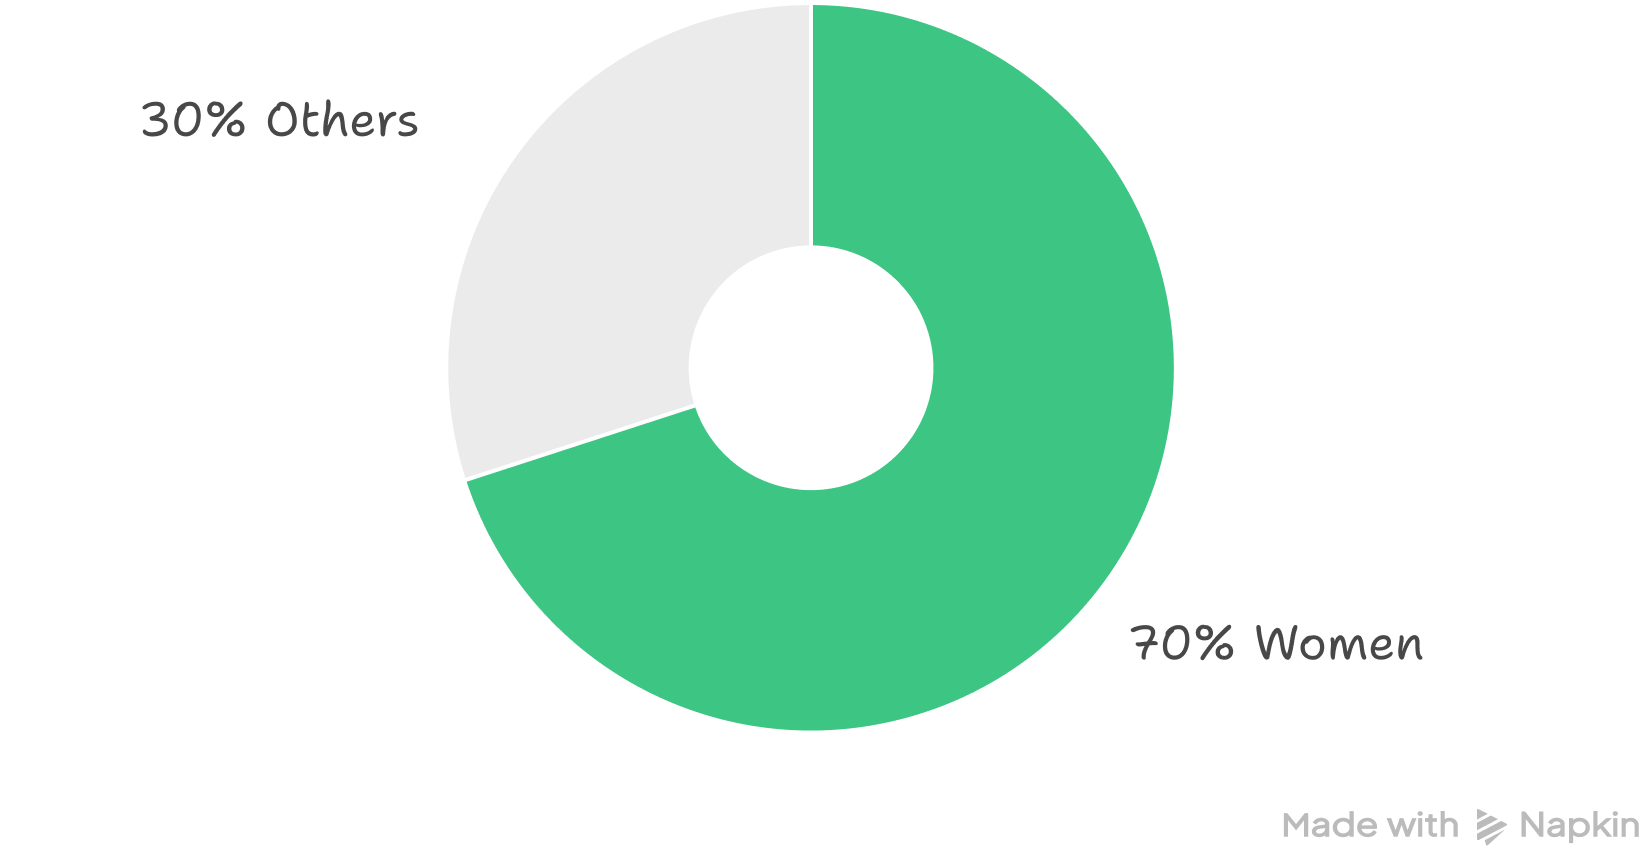
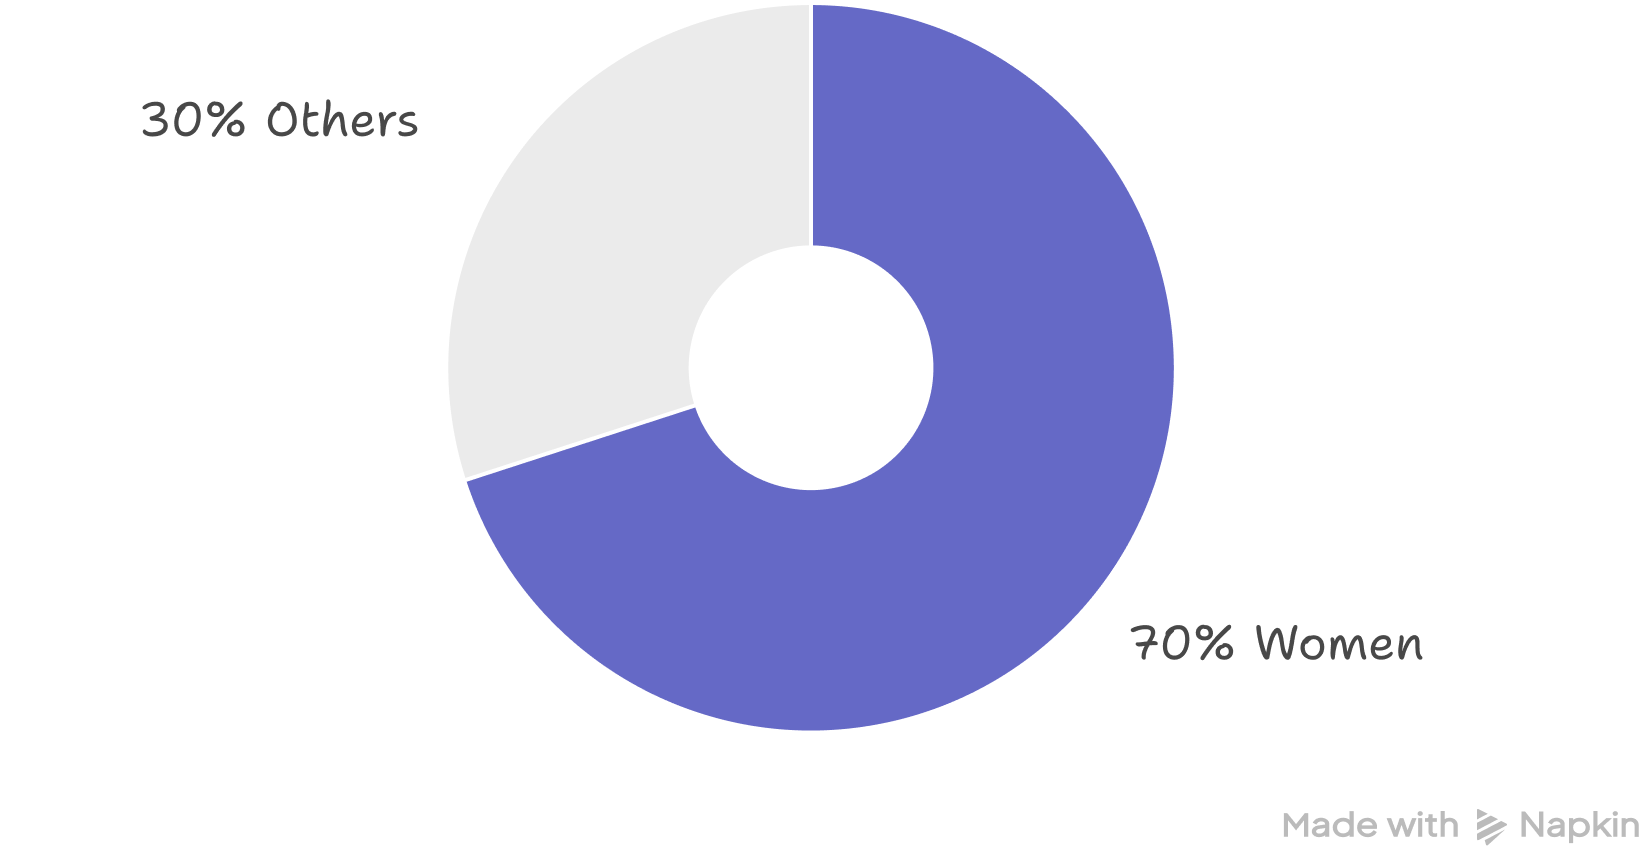
Update Livsmedelsverket

Changed region(s): [[0.2799, 0.0, 0.7152, 0.8585]]

diff --git a/livsmedelsverket.html b/livsmedelsverket.html
@@ -44,92 +44,135 @@
 
   <section class="section-detail">
     <div class="container">
-      <h2> Livsmedelsverket </h2>
-      <h4> The Project </h4>
-      <p>Livsmedelsverket is the state management authority for food issues with the task of working actively in consumer 
-        interests for safe food, fairness in food handling, good food habits, and legislation on food. All the information for 
-        consumers can be found in their website. The aim of this project was to both update the UI and make sure that the 
-        website is accessible for every user. With the web accessibility laws coming in effect on June 2025, Livsmedelsverket 
-        like many companies and authorities, have spent resources into making sure that their websites comply with the Web 
-        Content Accessibility Guidelines (WCAG).</p>
+      <div class="titlewrap">
+        <img class="livsicon" src="img/11livsmedelsverket/2detail/accessicon.png" alt="Illustration of accessibility icon surrounded by arrows.">
+        <h2>Accessibility in Livsmedels&shy;verket</h2>
+      </div>
+      <div class="heading-with-icon">
+        <img class="bulleticon" src="img/00main/icons/goal.png" alt="Icon of a goal.">
+        <h4> Goal </h4>
+      </div>
+      <p>Livsmedelsverket is the state management authority for food issues working actively in consumer interests for safe food, fairness in food handling, good food habits, and legislation on food. The aim of this project was to both update the UI and make sure that the website is accessible for every user. With the web accessibility laws coming in effect on June 2025, Livsmedelsverket like many companies and authorities, have spent resources into making sure that their websites comply with the Web Content Accessibility Guidelines (WCAG).</p>
 
       <h1 class="quote">"We want to have our website evaluated, get UI improvements and suggestions to comply with the WCAG."</h1>
       <p class="author">- Livsmedelsverket's web project owners.</p>
-      <h4> The Users </h4>
-      <p>Are both private and corporate. Private users ate mostly concerned about safe food, food handling, good food habits, and food recalls.
-        The corporate users go in the website to learn, and know how to comply with food legislations.
-      </p>
-      <h4> The Product </h4>
-      <p> In Livsmedelsverket’s website, guidance to the legislation on food, and food control can be found. The rules that 
-        apply and what they mean, and read about how food control works. Advice on food consumption, food handling and recalls 
-        can also be found. As such the website contains articles, advice columns, product recall lists, divided in different 
-        categories and subcategories.</p>
 
+
+       <div class="squares-section">
+        <div class="heading-with-icon">
+          <img class="bulleticon" src="img/00main/icons/users.png" alt="Icon of a 3 users.">
+          <h4> Users </h4>
+        </div>
+        <p>Livsmedelsverket user’s are divided in private users and corporate users. Private users are mostly concerned about safe food, good food habits, and food recalls. The corporate users go in the website to learn, and know how to comply with food legislation in Sweden.</p>
         <figure class="oneimgwide">
-          <img src="img/11livsmedelsverket/2detail/old design.png"
-            alt="image of the old website, it shows different sections. From top to bottom: banner, a grid with links to different articles, a recall list, and news listed with title and a brief paragraph."></img>
-          <figcaption>
-            <ul>
-              <li>The design when I was introduced to the project.</li>
-            </ul>
-          </figcaption>
-        </figure>
-
-      <h4> The Team </h4>
-      <div class="team">
-        <figure class="teamfigure">
-          <img src="img/11livsmedelsverket/2detail/team/POs.png" alt="Illustration depicting two characters.">
-          <figcaption>
-            <ul>
-              <li>Two Project owners</li>
-            </ul>
-          </figcaption>
-        </figure>
-        <figure class="teamfigure">
-          <img src="img/11livsmedelsverket/2detail/team/PM.png" alt="Illustration depicting one character.">
-          <figcaption>
-            <ul>
-              <li> One Project manager </li>
-            </ul>
-          </figcaption>
+          <img src="img/11livsmedelsverket/2detail/users.png"
+            alt="Illustration of a weight scale with the label private users on the left, with safe concerns, and good food habits. On the right the corporate users label, with compliance information, and legislative compliance."></img>
         </figure>
       </div>
 
+
+      <div class="heading-with-icon">
+        <img class="bulleticon" src="img/00main/icons/product.png" alt="Icon of a box.">
+        <h4> About the product </h4>
+      </div>
+      <p>I redesigned the website so it would have a smoother contrast between sections. I unified fonts and the colour palette. I made sure that the UI complied with the WCAG, contrast, sizes, links, etc. The article or content pages were also adapted to accommodate the new accessible line length. Other elements like tables, menus, and teaser were also revised.</p>
+      <figure class="oneimgwide">
+        <img src="img/11livsmedelsverket/2detail/final web.png"
+          alt="image of the start page of the website, shows teasers, news, and recall section."></img>
+        <figcaption>
+          <ul>
+            <li>Start page of the website for big screens.</li>
+          </ul>
+        </figcaption>
+      </figure>
+
+    <div class="examples">
+      <figure class="examplefigurestatic">
+          <img src="img/11livsmedelsverket/2detail/final1.png"
+            alt="Image of website in a small screen, showing one of the big teasers.">
+      </img>
+        <figcaption>
+          <ul>
+            <li>Start page for small screens, showing one big teaser. </li>
+          </ul>
+        </figcaption>
+      </figure>
+      <figure class="examplefigurestatic">
+          <img src="img/11livsmedelsverket/2detail/final2.png"
+            alt="Image of the website in a small screen, showing the news section.">
+      </img>
+        <figcaption>
+          <ul>
+            <li> Start page for small screens, showing the news section. </li>
+          </ul>
+        </figcaption>
+      </figure>
+    </div>
+
+
+    <div class="squares-section">
+      <div class="heading-with-icon">
+        <img class="bulleticon" src="img/00main/icons/team.png" alt="Icon four puzzle pieces.">
+        <h4> The team </h4>
+      </div>
+      <p>Fully remote work and short project. Clear and poignant communication was essential for the project’s success.</p>
       <div class="team">
         <figure class="teamfigure">
-          <img src="img/11livsmedelsverket/2detail/team/tech.png" alt="Illustration depicting one character.">
-          <figcaption>
-            <ul>
-              <li>One Tech lead</li>
-            </ul>
-          </figcaption>
-        </figure>
-        <figure class="teamfigure">
-          <img src="img/11livsmedelsverket/2detail/team/fullstack.png" alt="Illustration depicting one character.">
-          <figcaption>
-            <ul>
-              <li> One Fullstack developer </li>
-            </ul>
+            <img src="img/11livsmedelsverket/2detail/team/POs.png" alt="Illustration depicting two characters.">
+            <figcaption>
+              <ul>
+                <li>Two Project owners</li>
+              </ul>
+            </figcaption>
+          </figure>
+          <figure class="teamfigure">
+            <img src="img/11livsmedelsverket/2detail/team/PM.png" alt="Illustration depicting one character.">
+            <figcaption>
+              <ul>
+                <li> One Project manager </li>
+              </ul>
+            </figcaption>
+          </figure>
+        </div>
+  
+        <div class="team">
+          <figure class="teamfigure">
+            <img src="img/11livsmedelsverket/2detail/team/tech.png" alt="Illustration depicting one character.">
+            <figcaption>
+              <ul>
+                <li>One Tech lead</li>
+              </ul>
+            </figcaption>
+          </figure>
+          <figure class="teamfigure">
+            <img src="img/11livsmedelsverket/2detail/team/fullstack.png" alt="Illustration depicting one character.">
+            <figcaption>
+              <ul>
+                <li> One Fullstack developer </li>
+              </ul>
+            </figcaption>
+          </figure>
+        </div>
+  
+        <div class="team">
+          <figure class="teamfigure">
+            <img src="img/11livsmedelsverket/2detail/team/UX me.png" alt="Illustration depicting one character.">
+            <figcaption>
+              <ul>
+                <li> One UI/UX designer (Me) </li>
+              </ul>
           </figcaption>
         </figure>
       </div>
+    </div>
 
-      <div class="team">
-        <figure class="teamfigure">
-          <img src="img/11livsmedelsverket/2detail/team/UX me.png" alt="Illustration depicting one character.">
-          <figcaption>
-            <ul>
-              <li> One UI/UX designer (Me) </li>
-            </ul>
-          </figcaption>
-        </figure>
-      </div>
 
-      <h4> The Process </h4>
-      <p>The project started with a meeting with the project manager and the tech lead where they explained the context and 
-        what had been done so far in the project. After I had a meeting with the project owners. They explained that their 
-        objective was to comply with WACG and update the UI. They shared a sketch to show what they had in mind for the start 
-        page. I used it as an inspiration, and to understand what new features they wanted to offer.</p>
+    <div class="heading-with-icon">
+      <img class="bulleticon" src="img/00main/icons/process.png"
+        alt="Icon of light bulb circled and being surrounded by circles.">
+      <h4> The process </h4>
+    </div>
+      <p>This was a short project, it started with a meeting with the project manager and the tech lead where they explained the context and what had been done so far in the project. After, I had a meeting with the project owners. They explained their objective to comply with the WCAG and to update the UI. They shared a sketch to show what they had in mind for the start page. I used it as an inspiration, and to understand the direction they wanted to take the UI in.</p>
       <figure class="oneimgwide">
         <img src="img/11livsmedelsverket/2detail/sketch1.png"
           alt="image of the top part of the start page sketch. Includes the top navigation, header and 3 teasers."></img>
@@ -158,10 +201,7 @@
         </figcaption>
       </figure>
 
-      <p>Besides the start page, some changes had to be made to the navigation and to the content pages. The content pages 
-        needed changes to the line length. The spacing and size of the font were a global change.<br><br> 
-        The navigation got a cleaner look and the secondary colours were used more often, for example to bring contrast to 
-        blocks of text so the scanning of information would be easier and faster. </p>
+      <p>Talking with the fullstack developer, I realise that we needed to consolidate fonts and colour palette. While doing that I made sure that the sizes and contrast were compliant with the WCAG. Other global changes had to be made, specifically to the navigation and to the content pages. The content pages needed changes to the content grid to accommodate the new line length. The navigation got a cleaner look and the secondary colours were used more to make the information hierarchy clearer and to create breaks in the paragraphs so the scanning of information would be easier and faster.</p>
         <figure class="oneimgwide">
           <img src="img/11livsmedelsverket/2detail/eggwide.png"
             alt="image of a content page with annotations about the contrast changes."></img>
@@ -196,20 +236,13 @@
 
 
 
-        <p>Some other elements were also considered and given suggestions for improving, such as the tables. The tables are often used 
-          in the website. I created some alternatives on how to improve their readability and usefulness. There were two main alternatives. 
-          The first one, was to add colour for contrast between rows. However keeping the tables as they were came with challenges for small screens.
-          I designed a table that used tabs, so the user would be aware of all the columns at a glance and could change between what they considered 
-          the relevant content faster. The second alternative, was to reconsider the use of tables for all the display of data. Specially 
-          when the information in the rows wasn't related. For these cases I designed cards to be used instead of tables.
-        </p>
-
+        <p>I also gave UX improvement suggestions for other components in the website like the data tables. Tables are often used in the website. I created some alternatives on how to improve their readability and usefulness. There were two main alternatives. The first one, was to add colour for contrast between rows. However keeping the tables as they were came with challenges for small screens. I designed a table that used tabs, so the user would be aware of all the columns at a glance and could change between what they considered the relevant content faster. The second alternative, was to reconsider the use of tables for all the display of data. Specially when the information in the rows wasn't related. For these cases I designed cards to be used instead of tables.</p>
         <figure class="oneimgwide">
           <img src="img/11livsmedelsverket/2detail/tableline.png"
             alt="image of the table that would be seen in a big screen. Every other line is turquoise."></img>
           <figcaption>
             <ul>
-              <li>Visualisation of data in the table for big screens.</li>
+              <li>Keeping the tables with contrast change between rows. Big screen look.</li>
             </ul>
           </figcaption>
         </figure>
@@ -247,68 +280,71 @@
           </figure>
         </div>
 
-        
-      <p>I had weekly meetings with the PO’s so there was constant iteration until only one alternative was left.
-        Once the designs for the different sections were approved I would deliver it to the full stack developer through a 
-        meeting and Figma specifications. Who would then implement and sometimes come back to me when questions or concerns 
-        arose.</p>
-        <figure class="oneimgwide">
-          <img src="img/11livsmedelsverket/2detail/final web.png"
-            alt="image of the third part of the start page sketch. It has 4 columns and two rows of teasers. The top row the teasers are tiles with an image and text underneath. The bottom row has a solid background and text."></img>
-          <figcaption>
-            <ul>
-              <li>Start page of the website for big screens.</li>
-            </ul>
-          </figcaption>
-        </figure>
+      <p>I had weekly meetings with the PO’s so there was constant iteration until only one alternative was left. Once the designs for the different sections were approved I would deliver it to the full stack developer through a meeting and Figma specifications. Who would then implement and sometimes come back to me when questions or concerns arose.</p>
+      <figure class="oneimgwide">
+        <img src="img/11livsmedelsverket/2detail/process.png"
+          alt="Diagram of the design process, from left to right, analysis, wireframe flows, meeting with PO, PM and dev, and High fidelity wireframe."></img>
+        <figcaption>
+          <ul>
+            <li> </li>
+          </ul>
+        </figcaption>
+      </figure>
 
 
-      <div class="examples">
-        <figure class="examplefigurestatic">
-            <img src="img/11livsmedelsverket/2detail/final1.png"
-              alt="Image of website in a small screen, showing one of the big teasers.">
-        </img>
-          <figcaption>
-            <ul>
-              <li>Start page for small screens, showing one big teaser. </li>
-            </ul>
-          </figcaption>
-        </figure>
-        <figure class="examplefigurestatic">
-            <img src="img/11livsmedelsverket/2detail/final2.png"
-              alt="Image of the website in a small screen, showing the news section.">
-        </img>
-          <figcaption>
-            <ul>
-              <li> Start page for small screens, showing the news section. </li>
-            </ul>
-          </figcaption>
-        </figure>
+      <div class="squares-section">
+        <div class="heading-with-icon">
+          <img class="bulleticon" src="img/00main/icons/closer look.png"
+            alt="Icon of a magnifying glass with an eye in the middle.">
+          <h4> Closer look at product </h4>
+        </div>
+        <div class="closeup">
+          <figure class="closefigure">
+            <img src="img/11livsmedelsverket/2detail/teasers.png" alt="Close-up of the three different teasers designed.">
+            <h5>Different teasers</h5>
+            <p>Three different types of teasers, depending on the context and content. They make the website more dynamic.<br><br><br><br></p>
+          </figure>
+          <figure class="closefigure">
+            <img src="img/11livsmedelsverket/2detail/notices.png"
+              alt="Close-up of banner for important notices in the startpage.">
+            <h5>Important notices</h5>
+            <p>A banner that grabs the attention of the user to warns or makes them aware of important notices.
+              <br><br><br><br>
+            </p>
+          </figure>
+        </div>
+
+        <div class="closeup">
+          <figure class="closefigure">
+            <img src="img/11livsmedelsverket/2detail/filter.png"
+              alt="Close-up of the filter in the startpage for the news section.">
+            <h5>Fast filter</h5>
+            <p>A quick dropdown to filter on the news by category in the front page.<br><br><br><br></p>
+          </figure>
+          <figure class="closefigure">
+            <img src="img/11livsmedelsverket/2detail/table.png"
+              alt="Close-up of the tab table in the content pages.">
+            <h5>Table with tabs</h5>
+            <p>To avoid horizontal scrolling, an alternative with tabs showing all the columns was designed.<br><br></p>
+          </figure>
+        </div>
       </div>
 
-
-
-
-
-      <div class="separator">
-        <img src="img/00main/separator.png"></img>
+      <div class="heading-with-icon">
+        <img class="bulleticon" src="img/00main/icons/reflection.png"
+          alt="Icon of three thought bubbles with different colours.">
+        <h4> Main reflections </h4>
       </div>
 
-
-      <h4> Lessons Learned </h4>
-      <link href="https://cdnjs.cloudflare.com/ajax/libs/font-awesome/4.7.0/css/font-awesome.min.css"
-        rel="stylesheet" />
-
-
-      <h5>Writing more to save time</h5>
-      <p>I believe the number of meetings during implementation could have been reduced if the designs had more annotations. 
-        Specially regarding the decisions directly related to WCAG. So, be more explicit with my annotations within the design 
-        and use them to stress the importance of the design decisions made.<br><br><br>
-      </p>
-
-
-
-
+      <div class="reflections">
+        <img class="numbericon" src="img/00main/icons/point 1.png" alt="Number 1">
+        <p><b>Expand on decisions through annotations. </b>I believe the number of meetings during implementation could have been reduced if the designs had more annotations. Specially regarding the decisions directly related to WCAG. So, be more explicit with my annotations within the design and use them to stress the importance of the design decisions made.</p>
+      </div>
+      <div class="reflections">
+        <img class="numbericon" src="img/00main/icons/point 2.png" alt="Number 2">
+        <p><b>Future features and improvements should be documented </b>and delivered to the PO’s, the wireframes, design file, and explanations, so they can consider and plan the work after the ongoing project ends.</p>
+      </div>
+      
 
     </div>
   </section>

diff --git a/css/style.css b/css/style.css
@@ -1106,6 +1106,14 @@
     z-index: 2;
   }
 
+  .section-detail .livsicon {
+    position: absolute;
+    width: 296px;
+    left: -100px;
+    top: -60px;
+    z-index: 2;
+  }
+
   .section-detail .quote {
     max-width: 820px;
     margin: auto;
@@ -1326,6 +1334,11 @@
     }
 
     .section-detail .powermindicon {
+      opacity: 0;
+      width: 0;
+    }
+
+    .section-detail .livsicon {
       opacity: 0;
       width: 0;
     }
